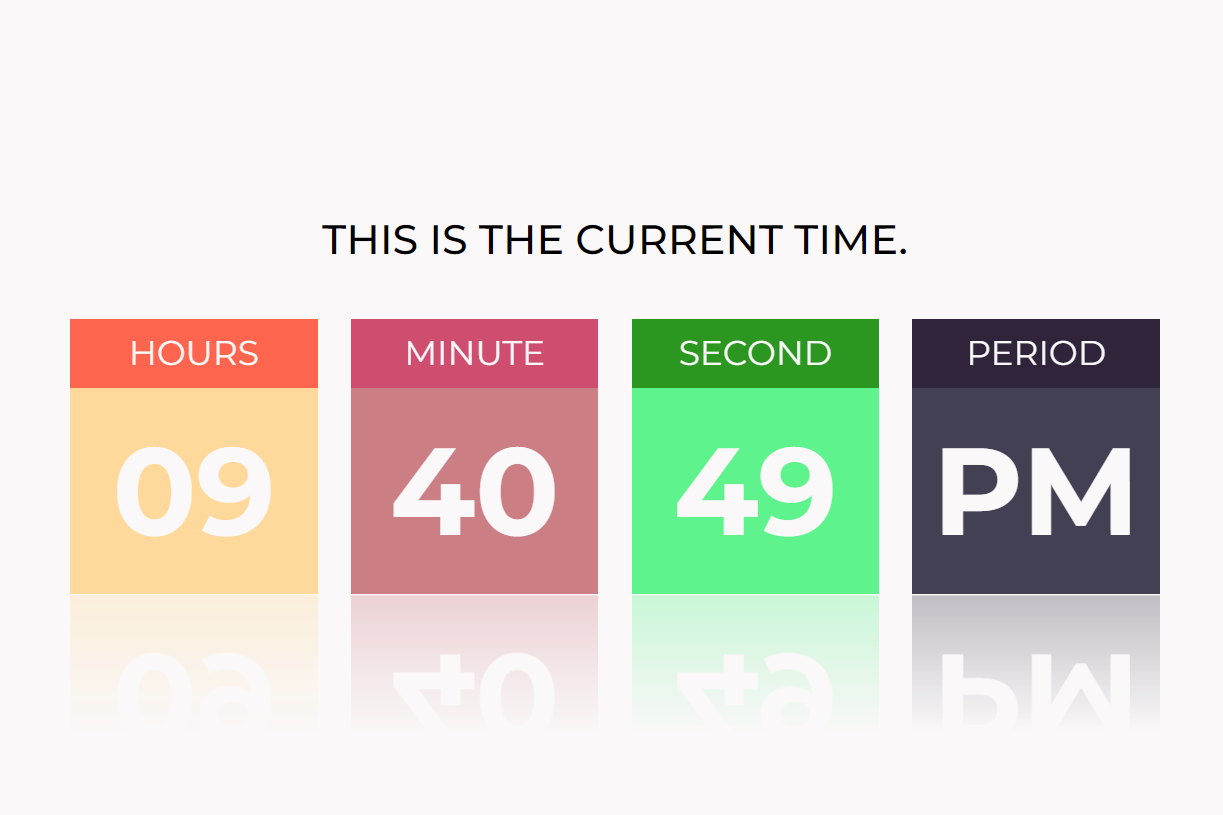
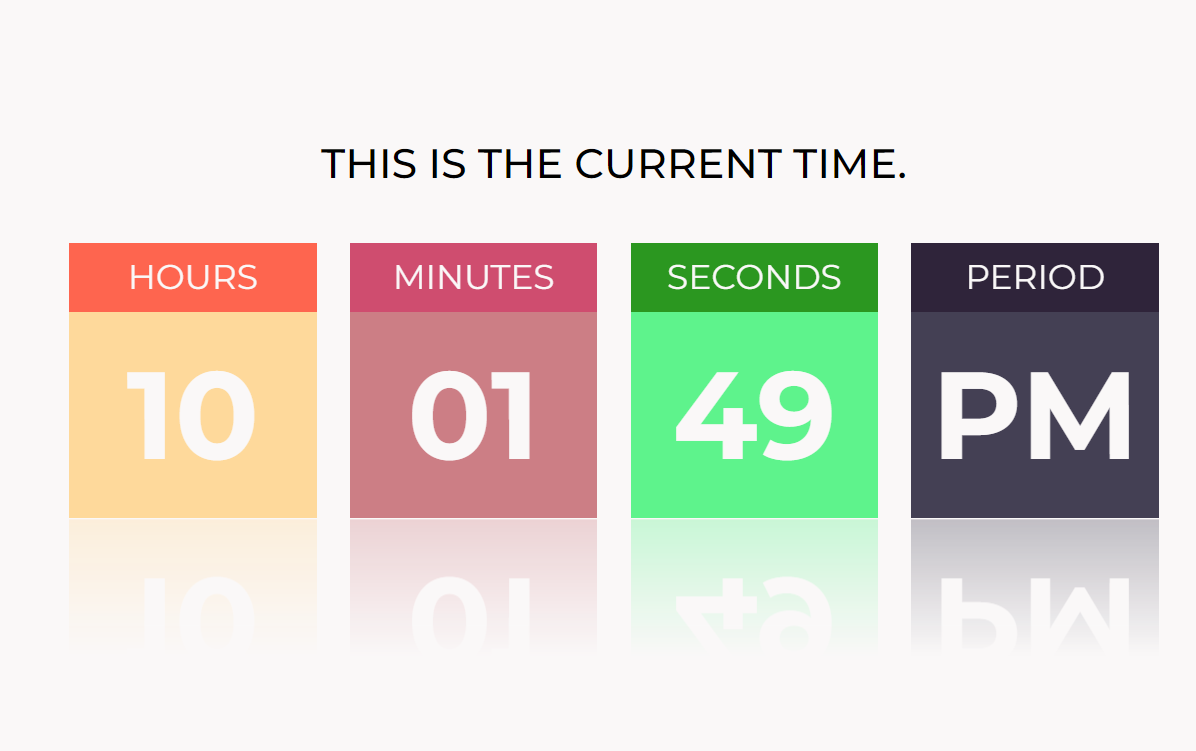
update files

Changed region(s): [[0.0309, 0.2756, 0.99, 0.8269], [0.2784, 0.1838, 0.7425, 0.245], [0.3403, 0.7656, 0.464, 0.7963]]

diff --git a/DigitalClock/main.js b/DigitalClock/main.js
@@ -3,10 +3,10 @@ $(document).ready(function () {
     // To get current time/date
     let date = new Date();
 
-    // Make variables to get hours, min and second
+    // Make variables to get hours, minutes and seconds
     let hours = date.getHours();
-    let min = date.getMinutes();
-    let sec = date.getSeconds();
+    let minutes = date.getMinutes();
+    let seconds = date.getSeconds();
 
     // AM, PM setting
     let session = "AM";
@@ -25,13 +25,13 @@ $(document).ready(function () {
     }
 
     hours = hours < 10 ? "0" + hours : hours;
-    min = min < 10 ? "0" + min : min;
-    sec = sec < 10 ? "0" + sec : sec;
+    minutes = minutes < 10 ? "0" + minutes : minutes;
+    seconds = seconds < 10 ? "0" + seconds : seconds;
 
     // Set the variable to span
     $('#hours').text(hours);
-    $('#min').text(min);
-    $('#second').text(sec);
+    $('#minutes').text(minutes);
+    $('#seconds').text(seconds);
     $('#period').text(session);
 
     // To change time in every seconds

diff --git a/DigitalClock/index.html b/DigitalClock/index.html
@@ -19,12 +19,12 @@
             <span id="hours">00</span>
         </div>
         <div class="time">
-            <span>Minute</span>
-            <span id="min">00</span>
+            <span>Minutes</span>
+            <span id="minutes">00</span>
         </div>
         <div class="time">
-            <span>Second</span>
-            <span id="second">00</span>
+            <span>Seconds</span>
+            <span id="seconds">00</span>
         </div>
         <div class="time">
             <span>Period</span>
